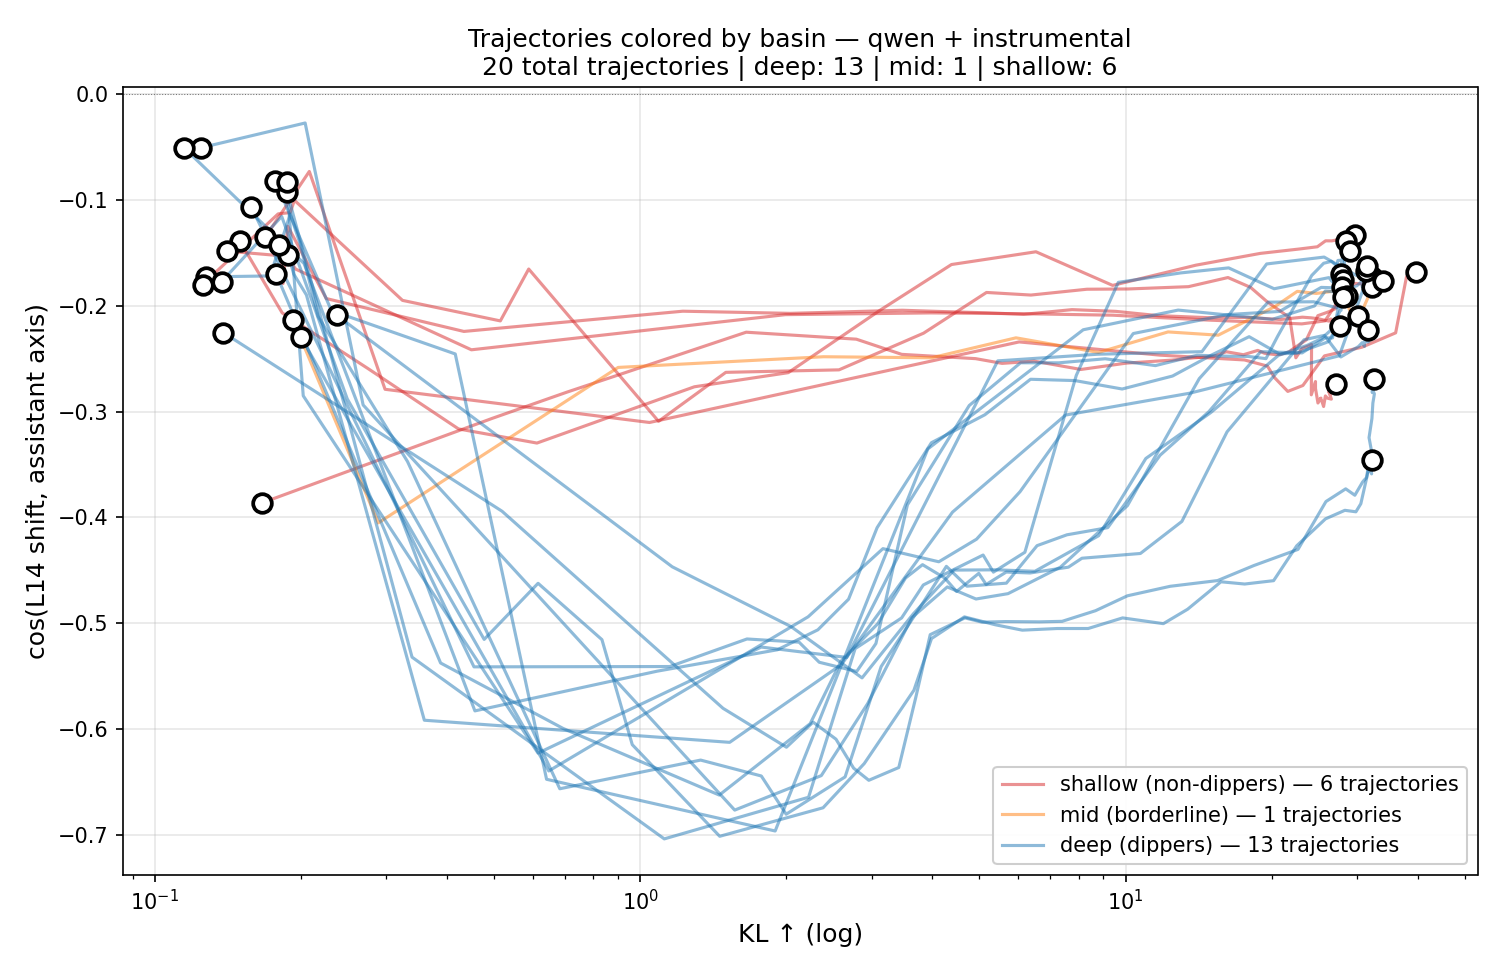
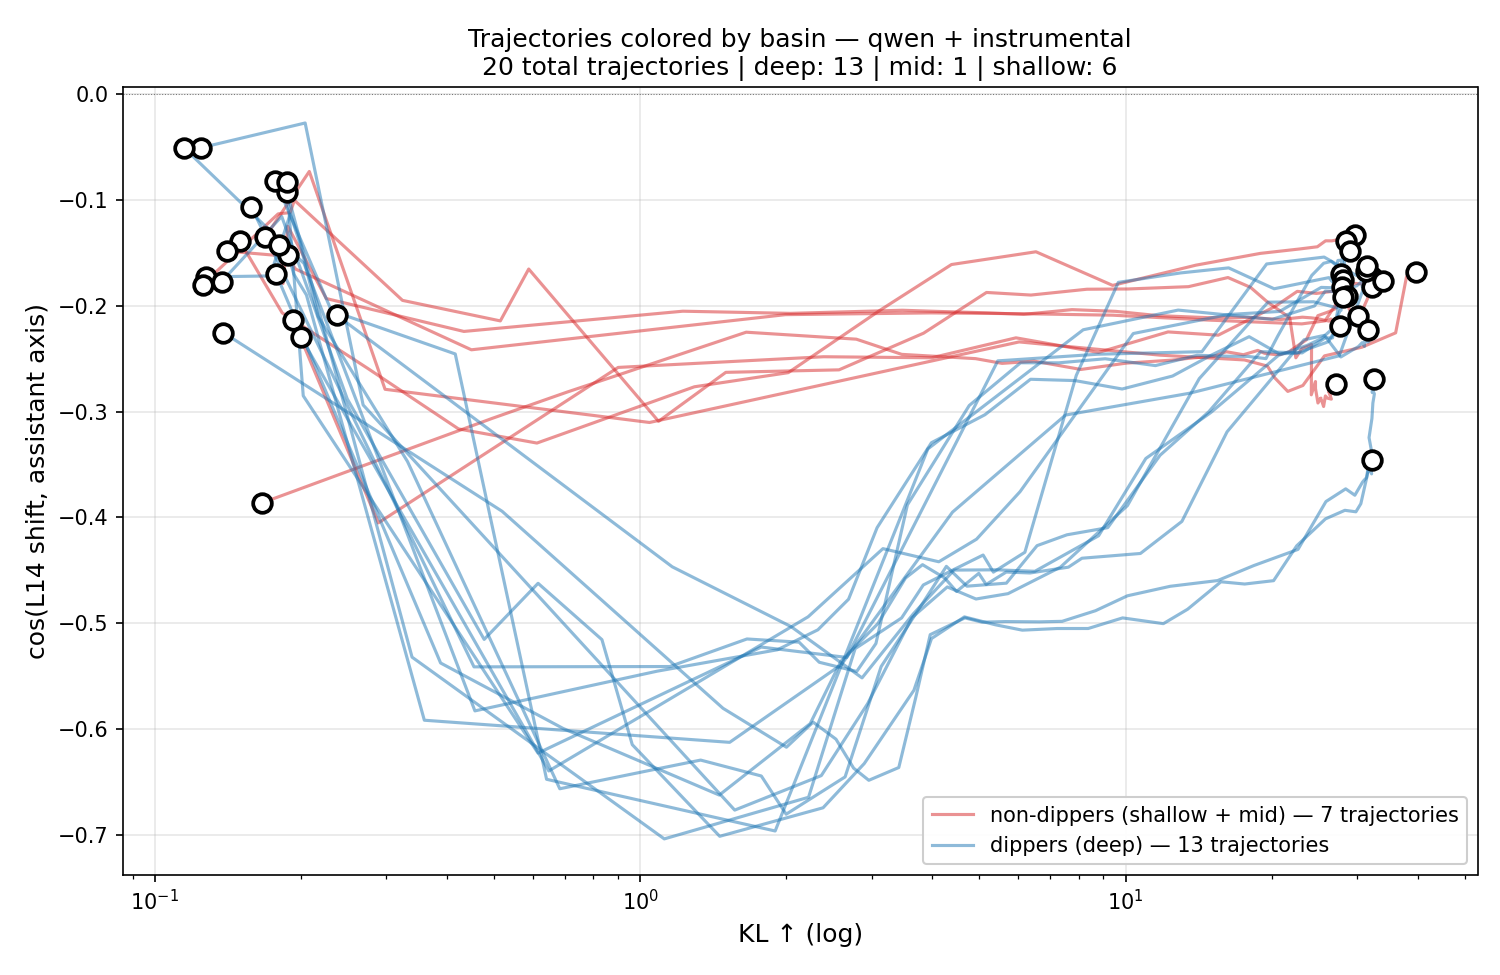
figure_basins_by_label: merge mid into red (non-dippers), drop orange
The mid category (cos between -0.5 and -0.4) only ever has 1
trajectory in the current data — qwen seed_0 PERSONA at -0.41,
which functionally doesn't dip. Coloring it the same red as the
shallow trajectories matches its actual behavior and keeps the
visual binary clean (blue dippers vs red non-dippers).

Single combined Qwen figure (PERSONA + INSTRUMENTAL):
  13 blue dippers / 7 red non-dippers (= 6 shallow + 1 mid)

Single-condition INSTRUMENTAL figure also regenerated for consistency
(no mid trajectories there, so visually unchanged but uses the same
"non-dippers (shallow + mid)" legend wording).

diff --git a/scripts/figure_basins_by_label.py b/scripts/figure_basins_by_label.py
@@ -85,14 +85,19 @@ def main():
 
     fig, ax = plt.subplots(figsize=(10, 6.5))
 
-    # Draw shallow first, then mid, then deep, so dippers sit visually on top
-    for color, basin in [("tab:red", "shallow"),
-                          ("tab:orange", "mid"),
-                          ("tab:blue", "deep")]:
-        items = by_basin[basin]
+    # Visual binary: deep (dippers) vs everything-else (non-dippers).
+    # mid trajectories get the same red as shallow since they don't
+    # functionally dip — keeps the visualization clean.
+    non_dippers = by_basin["shallow"] + by_basin["mid"]
+    dippers = by_basin["deep"]
+
+    # Draw non-dippers first, then dippers on top
+    for color, items, label in [
+        ("tab:red", non_dippers, f"non-dippers (shallow + mid) — {len(non_dippers)} trajectories"),
+        ("tab:blue", dippers, f"dippers (deep) — {len(dippers)} trajectories"),
+    ]:
         if not items:
             continue
-        label = f"{basin} ({'dippers' if basin == 'deep' else 'non-dippers' if basin == 'shallow' else 'borderline'}) — {len(items)} trajectories"
         first = True
         for cond, seed, traj, _ in items:
             kls = [t[0] for t in traj]
